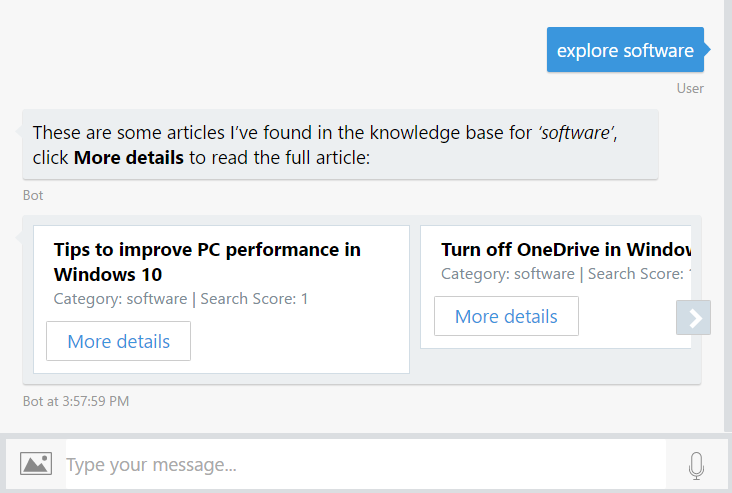
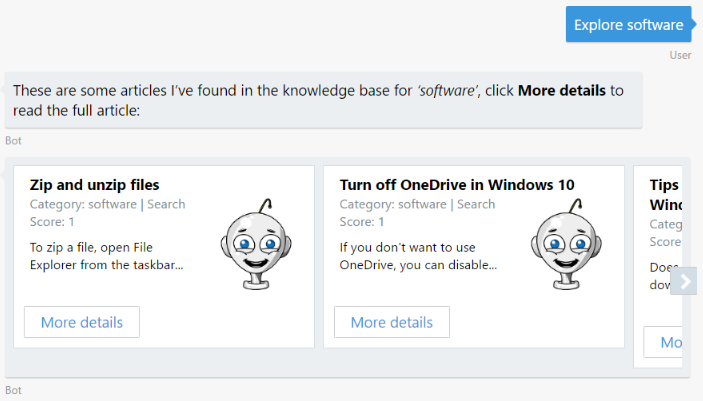
Use the happy image in the carousel.

diff --git a/CSharp/exercise4-KnowledgeBase/Util/CardUtil.cs b/CSharp/exercise4-KnowledgeBase/Util/CardUtil.cs
@@ -22,7 +22,7 @@
             {
                 reply.AttachmentLayout = AttachmentLayoutTypes.Carousel;
 
-                var cardImages = new CardImage[] { new CardImage("https://bot-framework.azureedge.net/bot-icons-v1/bot-framework-default-7.png") };
+                var cardImages = new CardImage[] { new CardImage("https://raw.githubusercontent.com/GeekTrainer/help-desk-bot-lab/develop/assets/botimages/head-smiling-medium.png") };
 
                 foreach (SearchResultHit item in searchResult.Value)
                 {

diff --git a/CSharp/exercise6-MoodDetetion/Util/CardUtil.cs b/CSharp/exercise6-MoodDetetion/Util/CardUtil.cs
@@ -22,7 +22,7 @@
             {
                 reply.AttachmentLayout = AttachmentLayoutTypes.Carousel;
 
-                var cardImages = new CardImage[] { new CardImage("https://bot-framework.azureedge.net/bot-icons-v1/bot-framework-default-7.png") };
+                var cardImages = new CardImage[] { new CardImage("https://raw.githubusercontent.com/GeekTrainer/help-desk-bot-lab/develop/assets/botimages/head-smiling-medium.png") };
 
                 foreach (SearchResultHit item in searchResult.Value)
                 {

diff --git a/CSharp/exercise7-HandOffToHuman/Util/CardUtil.cs b/CSharp/exercise7-HandOffToHuman/Util/CardUtil.cs
@@ -22,7 +22,7 @@
             {
                 reply.AttachmentLayout = AttachmentLayoutTypes.Carousel;
 
-                var cardImages = new CardImage[] { new CardImage("https://bot-framework.azureedge.net/bot-icons-v1/bot-framework-default-7.png") };
+                var cardImages = new CardImage[] { new CardImage("https://raw.githubusercontent.com/GeekTrainer/help-desk-bot-lab/develop/assets/botimages/head-smiling-medium.png") };
 
                 foreach (SearchResultHit item in searchResult.Value)
                 {

diff --git a/CSharp/exercise8-BackChannel/Util/CardUtil.cs b/CSharp/exercise8-BackChannel/Util/CardUtil.cs
@@ -22,7 +22,7 @@
             {
                 reply.AttachmentLayout = AttachmentLayoutTypes.Carousel;
 
-                var cardImages = new CardImage[] { new CardImage("https://bot-framework.azureedge.net/bot-icons-v1/bot-framework-default-7.png") };
+                var cardImages = new CardImage[] { new CardImage("https://raw.githubusercontent.com/GeekTrainer/help-desk-bot-lab/develop/assets/botimages/head-smiling-medium.png") };
 
                 foreach (SearchResultHit item in searchResult.Value)
                 {

diff --git a/assets/exercise4-KnowledgeBase/CardUtil.cs b/assets/exercise4-KnowledgeBase/CardUtil.cs
@@ -22,7 +22,7 @@
             {
                 reply.AttachmentLayout = AttachmentLayoutTypes.Carousel;
 
-                var cardImages = new CardImage[] { new CardImage("https://bot-framework.azureedge.net/bot-icons-v1/bot-framework-default-7.png") };
+                var cardImages = new CardImage[] { new CardImage("https://raw.githubusercontent.com/GeekTrainer/help-desk-bot-lab/develop/assets/botimages/head-smiling-medium.png") };
 
                 foreach (SearchResultHit item in searchResult.Value)
                 {
